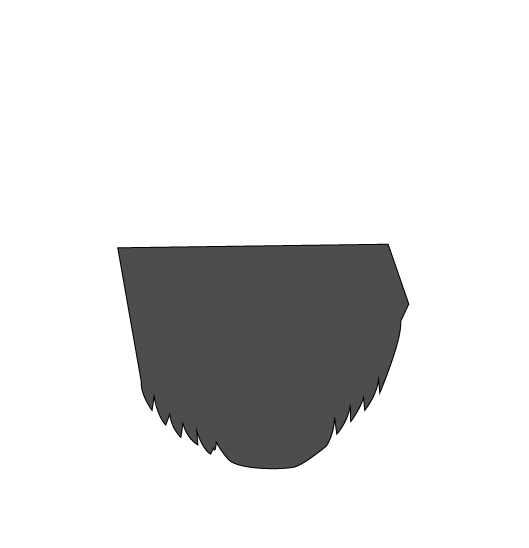
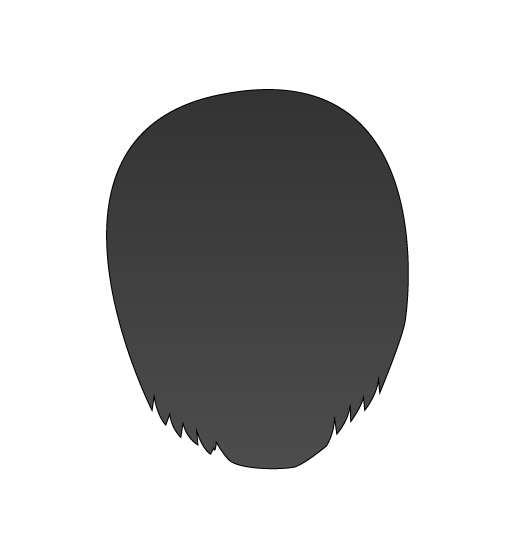
- убрана тень головы - обработка вращения головы в пространстве - убрано движение головы по вертикали от координаты в кадре

Changed region(s): [[0.1815, 0.1551, 0.7864, 0.7135], [0.7259, 0.6204, 0.7561, 0.6515], [0.2722, 0.7135, 0.3025, 0.7445]]

diff --git a/animator.py b/animator.py
@@ -9,24 +9,33 @@ linear = cv.INTER_LINEAR
 
 
 class Animator:
+    # текущие углы поворота головы
     cur_tilt = 0
+    cur_vertical_tilt = 0
+    cur_horizontal_tilt = 0
+    # текущее смещение головы от наклона
+    cur_tilt_hor_offset = 0
+    cur_tilt_ver_offset = 0
+    # текущая высота бровей
     cur_l_brow = 0
     cur_r_brow = 0
+    # текущий наклон бровей
     cur_r_brow_tilt = 0
     cur_l_brow_tilt = 0
+    # текущее расположение зрачков
     cur_r_pupil = 0
     cur_l_pupil = 0
+    # текущая форма глаз
     cur_r_eye_shape = 6
     cur_l_eye_shape = 6
 
+    # моргание
     blinking = 0  # 0 - нет, -1 - закрывает глаза, 1 - открывает глаза
     blinking_mat = [0, 2, 3, 5]  # изображения глаз при моргании
     blinking_step = 4
 
     head_tilt = 0
     target_head_tilt = 0
-    cur_head_offset = 0
-    head_central_y = -1
     res = None
 
     cur_breathe = 0
@@ -55,14 +64,22 @@ class Animator:
         self.cur_r_eye_shape = self.blinking_mat[self.blinking_step]
         self.cur_l_eye_shape = self.cur_r_eye_shape
 
-    def animate(self, angle, l_brow_pos, r_brow_pos, r_pupil_pos, l_pupil_pos, target_head_offset, l_brow_tilt,
-                r_brow_tilt):
-        self.head_tilt = angle
-        # сдвигаем лицо по вертикали
-        self.cur_head_offset = move_slowly(target_head_offset, self.cur_head_offset, 4)
+    def animate(self, angle, l_brow_pos, r_brow_pos, r_pupil_pos, l_pupil_pos, l_brow_tilt,
+                r_brow_tilt, head_vertical_tilt, head_horizontal_tilt):
         # поворачиваем лицо
-        self.cur_tilt = move_slowly(self.head_tilt, self.cur_tilt, 3)
+        self.cur_tilt = move_slowly(angle, self.cur_tilt, 3)
         self.cur_tilt = set_limits(self.cur_tilt, LIMIT_HEAD_TILT, -LIMIT_HEAD_TILT)
+        # поворачиваем голову
+        if head_vertical_tilt < 0:
+            head_vertical_tilt = -head_vertical_tilt - 180
+        else:
+            head_vertical_tilt = -head_vertical_tilt + 180
+        self.cur_vertical_tilt = move_slowly(head_vertical_tilt, self.cur_vertical_tilt, 3)
+        self.cur_vertical_tilt = set_limits(self.cur_vertical_tilt, LIMIT_HEAD_TILT, -LIMIT_HEAD_TILT)
+        self.cur_horizontal_tilt = move_slowly(head_horizontal_tilt, self.cur_horizontal_tilt, 3)
+        self.cur_horizontal_tilt = set_limits(self.cur_horizontal_tilt, LIMIT_HEAD_TILT, -LIMIT_HEAD_TILT)
+        self.cur_tilt_hor_offset = self.cur_horizontal_tilt / LIMIT_HEAD_TILT * HEAD_MAX_X_TILT
+        self.cur_tilt_ver_offset = self.cur_vertical_tilt / LIMIT_HEAD_TILT * HEAD_MAX_Y_TILT
         # двигаем брови
         self.cur_l_brow = move_slowly(l_brow_pos, self.cur_l_brow, 2)
         self.cur_l_brow = set_limits(self.cur_l_brow, LIMIT_BROW_HIGH, LIMIT_BROW_LOW)
@@ -80,7 +97,7 @@ class Animator:
         if abs(self.target_head_tilt - self.head_tilt) < 0.05:
             self.target_head_tilt = random.random() * 20 - 10
         self.head_tilt = move_slowly(self.target_head_tilt, self.head_tilt, 7)
-        self.animate(self.head_tilt, 0, 0, 0, 0, self.head_central_y, 0, 0)
+        self.animate(self.head_tilt, 0, 0, 0, 0, 0, 0, 0, 0)
 
     def standby(self, animate):
         if animate:
@@ -94,15 +111,9 @@ class Animator:
         self.display()
 
     def put_mask(self, mouth_shape, r_eye_s, l_eye_s):
-
-        head_offset = (self.cur_head_offset - self.head_central_y) * HEAD_MAX_Y_OFFSET / 250
-
-        head_shift = cp.array([[1, 0, 0], [0, 1, head_offset]], dtype=cp.float32)
         rot_x = self.imgs.shape()[0] / 2
         rot_y = self.imgs.shape()[1] / 2 + HEAD_ROT_POINT_Y
-        rot = utils.get_rot_mat((rot_x, rot_y), self.cur_tilt)
-        rot = cp.vstack([rot, [0, 0, 1]])
-        rot = cp.matmul(head_shift, rot).get()
+        rot = utils.get_rot_mat((rot_x, rot_y), self.cur_tilt).get()
 
         hair_back = self.imgs.get_img("hair_back").get()
         rot_hair_back = cv.warpAffine(hair_back, rot, self.imgs.w_s(), flags=linear, borderMode=bmode)
@@ -118,11 +129,6 @@ class Animator:
         body = cp.array(rot_hair_back)  # gpu
         body = utils.blend_transparent(body, self.imgs.get_img("body"))
 
-        shadow = self.imgs.get_img("head_shadow").get()
-        shadow = cv.warpAffine(shadow, rot, self.imgs.w_s(), flags=linear, borderMode=bmode)
-        shadow = cp.bitwise_and(self.imgs.get_img("body"), cp.array(shadow))
-        body = utils.blend_transparent(body, shadow)  # gpu
-
         face = self.imgs.get_img("head")  # gpu
         brows = cp.bitwise_or(cp.array(r_brow), cp.array(l_brow))  # брови gpu
         brow_mouth = cp.bitwise_or(brows, self.imgs.get_img("mouth_" + str(mouth_shape)))  # брови + рот gpu
@@ -136,17 +142,22 @@ class Animator:
         eyes = make_eyes(self.cur_l_pupil, self.cur_r_pupil, self.imgs, self.cur_l_eye_shape, self.cur_r_eye_shape)
 
         brows_mouth_eyes = cp.bitwise_or(eyes, brow_mouth)
-        brows_mouth_eyes = utils.vertical_shift(brows_mouth_eyes, int(head_offset / 2))
 
         face = utils.blend_transparent(face, brows_mouth_eyes)  # голова + рот + брови + глаза gpu
 
-        face = utils.blend_transparent(face, self.imgs.get_img("hair"))  # голова + рот + брови + глаза + волосы
-        face = cv.warpAffine(face.get(), rot, self.imgs.w_s(), flags=linear, borderMode=bmode)
+        hair_shift = cp.float32([[1, 0, -self.cur_tilt_hor_offset / 5], [0, 1, -self.cur_tilt_ver_offset / 3]])
+        hair = self.imgs.get_img("hair").get()
+        hair = cv.warpAffine(hair, hair_shift, self.imgs.w_s(), borderMode=bmode)
+
+        face = utils.blend_transparent(face, cp.array(hair))  # голова + рот + брови + глаза + волосы
+        face_shift = cp.float32([[1, 0, -self.cur_tilt_hor_offset], [0, 1, -self.cur_tilt_ver_offset]])
+        face = cv.warpAffine(face.get(), face_shift, self.imgs.w_s(), borderMode=bmode)
+        face = cv.warpAffine(face, rot, self.imgs.w_s(), flags=linear, borderMode=bmode)
 
         body = utils.blend_transparent(body, cp.array(face))
 
-        body_shift = cp.array([[1, 0, 0], [0, 1, head_offset + self.cur_breathe]], dtype=cp.float32)
-        body_rot = utils.get_rot_mat((BODY_ROT_X, BODY_ROT_Y), self.head_tilt / 4)
+        body_shift = cp.array([[1, 0, 0], [0, 1, self.cur_breathe]], dtype=cp.float32)
+        body_rot = utils.get_rot_mat((BODY_ROT_X, BODY_ROT_Y), self.cur_tilt / 4)
         body_rot = cp.vstack([body_rot, [0, 0, 1]])
         body_rot = cp.matmul(body_shift, body_rot)
         body = cv.warpAffine(body.get(), body_rot.get(), self.imgs.w_s(), flags=linear, borderMode=bmode)

diff --git a/main.py b/main.py
@@ -95,9 +95,13 @@ def get_pupil_pos(eye_area, right_point, left_point):
     _, thresh_gray = cv.threshold(eye_area, 0, 255, cv.THRESH_BINARY)
     max_cols = np.amin(thresh_gray, axis=0)
     occurrences = np.where(max_cols == 0)[0]
-    max_index = (occurrences[len(occurrences) - 1] + occurrences[0]) / 2
-    pupil_pos = max_index - (right_point[0] + left_point[0]) / 2 + left_point[0]
-    dst = occurrences[len(occurrences) - 1] - occurrences[0]
+    if len(occurrences) != 0:
+        max_index = (occurrences[len(occurrences) - 1] + occurrences[0]) / 2
+        pupil_pos = max_index - (right_point[0] + left_point[0]) / 2 + left_point[0]
+        dst = occurrences[len(occurrences) - 1] - occurrences[0]
+    else:
+        pupil_pos = 0
+        dst = 0
     return pupil_pos * 2 / limits.DOWNSCALING, dst
 
 
@@ -146,6 +150,26 @@ def rescale_rect(rect, num):
     return dlib.rectangle(left, top, right, bottom)
 
 
+def ref_3d_model():
+    model_points = [[0.0, 0.0, 0.0],
+                    [0.0, -330.0, -65.0],
+                    [-225.0, 170.0, -135.0],
+                    [225.0, 170.0, -135.0],
+                    [-150.0, -150.0, -125.0],
+                    [150.0, -150.0, -125.0]]
+    return np.array(model_points, dtype=np.float64)
+
+
+def ref_2d_image_points(shape):
+    image_points = [shape[30], shape[8], shape[36], shape[45], shape[48], shape[54]]
+    return np.array(image_points, dtype=np.float64)
+
+
+def camera_matrix(fl, center):
+    matrix = [[fl, 1, center[0]], [0, fl, center[1]], [0, 0, 1]]
+    return np.array(matrix, dtype=np.float)
+
+
 def main():
     cp.cuda.Device(0).use()
 
@@ -190,7 +214,6 @@ def main():
             small_gray = imutils.resize(frame, width=250)
             rects = detector.run(small_gray, 1, -0.5)[0]
             frames_skipped = 0
-        head_center = frame.shape[0] / 2
         if rects:
             face = rescale_rect(rects[0], 2)
             # сброс счётчика автономного режима
@@ -203,8 +226,6 @@ def main():
             cv.rectangle(frame, (x, y), (x + w, y + h), (255, 255, 0), 2)
             draw_landmarks(frame, shape)
             # начинаем изврат
-            if animator.head_central_y == -1:
-                animator.head_central_y = frame.shape[0]
             # все размеры определяем относительно длины носа, т.к. она неизменна
             rel_h = shape[33][1] - shape[27][1]
             # текушее увеличение лица
@@ -212,6 +233,17 @@ def main():
             a = shape[45][0] - shape[36][0]
             b = shape[36][1] - shape[45][1]
             alpha = math.degrees(math.atan(b / a))
+            # определяем положение лица в пространстве
+            face_3d_model = ref_3d_model()
+            ref_img_points = ref_2d_image_points(shape)
+            h, w = gray.shape
+            focal_length = w
+            cam_mat = camera_matrix(focal_length, (h / 2, w / 2))
+            dists = np.zeros((4, 1), dtype=np.float64)
+            _, rot_vec, _ = cv.solvePnP(face_3d_model, ref_img_points, cam_mat, dists)
+            r_mat, _ = cv.Rodrigues(rot_vec)
+            # первый угол - наклон по вертикали, 2 - поворот по горизонтали
+            angles, _, _, _, _, _ = cv.RQDecomp3x3(r_mat)
             # определяем положение рта, точки 62 и 66
             mouth_region = gray[shape[62][1]:shape[66][1], shape[61][0]:shape[63][0]].copy()
             cv.threshold(mouth_region, 80, 256, cv.THRESH_BINARY, mouth_region)
@@ -245,8 +277,8 @@ def main():
             # сдвиг головы по вертикали
             head_center = shape[33][1]
             # отрисовка
-            animator.animate(alpha, left_brow_pos_delta, right_brow_pos_delta, r_pupil_pos, l_pupil_pos, shape[33][1],
-                             l_brow_tilt, r_brow_tilt)
+            animator.animate(alpha, left_brow_pos_delta, right_brow_pos_delta, r_pupil_pos, l_pupil_pos,
+                             l_brow_tilt, r_brow_tilt, angles[0], angles[1])
             # проверка моргания
             prev_blink, next_blink = check_blinking(prev_blink, next_blink, animator)
             animator.put_mask(mouth_shape, right_eye_shape, left_eye_shape)
@@ -274,8 +306,6 @@ def main():
 
         if keyboard.is_pressed('alt+q'):
             break
-        elif keyboard.is_pressed('alt+r'):
-            animator.head_central_y = head_center
         else:
             for overlay_key in overlays:
                 if keyboard.is_pressed('alt+' + overlay_key["key"]):

diff --git a/limits.py b/limits.py
@@ -15,6 +15,10 @@ LIMIT_BROW_LOW = int(-2 / DOWNSCALING)
 # максимальное смещение головы по вертикали
 HEAD_MAX_Y_OFFSET = int(10 / DOWNSCALING)
 
+# максимальное смещение головы по вертикали/горизонтали при наклоне
+HEAD_MAX_Y_TILT = int(8 / DOWNSCALING)
+HEAD_MAX_X_TILT = int(8 / DOWNSCALING)
+
 ###########################
 # ключевые точки анимации #
 ###########################
